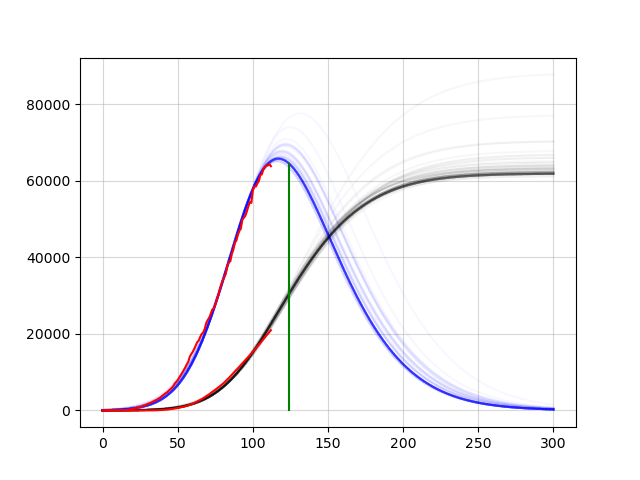
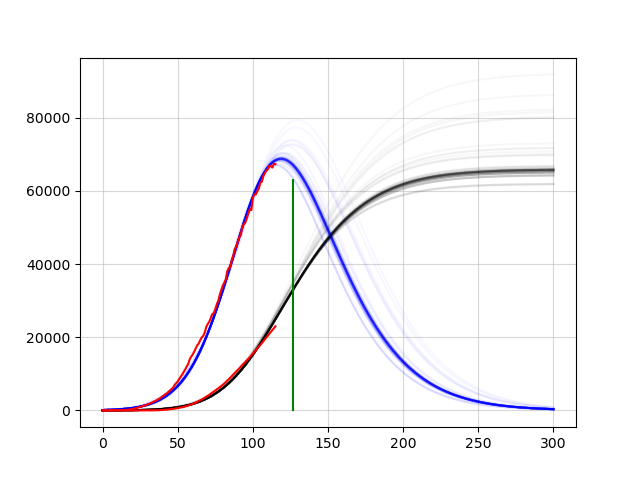
Update to 27 sep

Changed region(s): [[0.0312, 0.3125, 0.9062, 0.875], [0.0312, 0.1875, 0.125, 0.2812], [0.3125, 0.8125, 0.3438, 0.8438]]

diff --git a/covid_modelo.html b/covid_modelo.html
@@ -51,7 +51,7 @@ function unrise(x){ x.style.top = "-10px";}
 
 <p>
 Lo que pretendo con este ejercicio es generar consciencia sobre el virus CoVid19 y el riesgo real de muerte que representa para muchas personas. Hay que tomarlo en serio y evitar lo m&aacute;s posible caer en el riesgo de contagiarse y contagiar a nuestros seres queridos.<br>
-El modelo utiliza los <a href="https://coronavirus.gob.mx/datos/">datos oficiales</a> del coronavirus en M&eacute;xico actualizados hasta el 24 de Junio.
+El modelo utiliza los <a href="https://coronavirus.gob.mx/datos/">datos oficiales</a> del coronavirus en M&eacute;xico actualizados hasta el 27 de Junio.
 El c&oacute;digo puede ser revisado <a href="https://github.com/albertoibm/covid_data_process">aqu&iacute;</a>.
 </p>
 <p>
